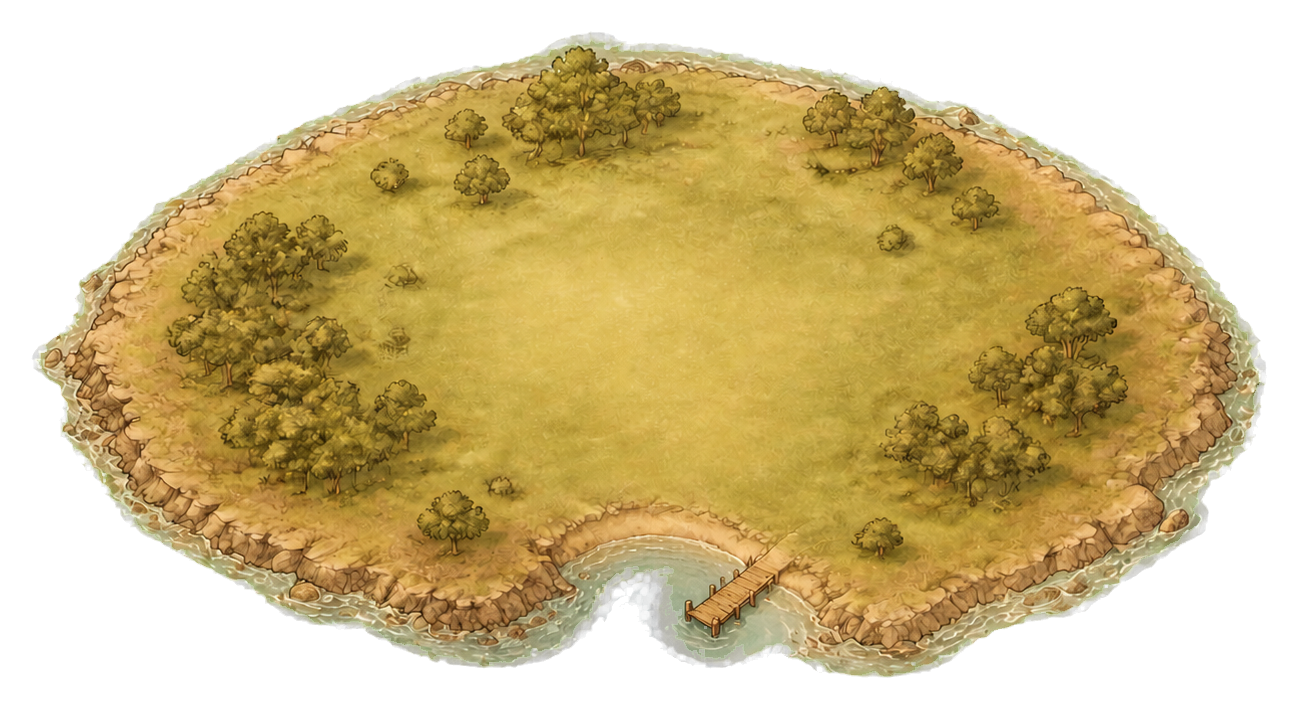
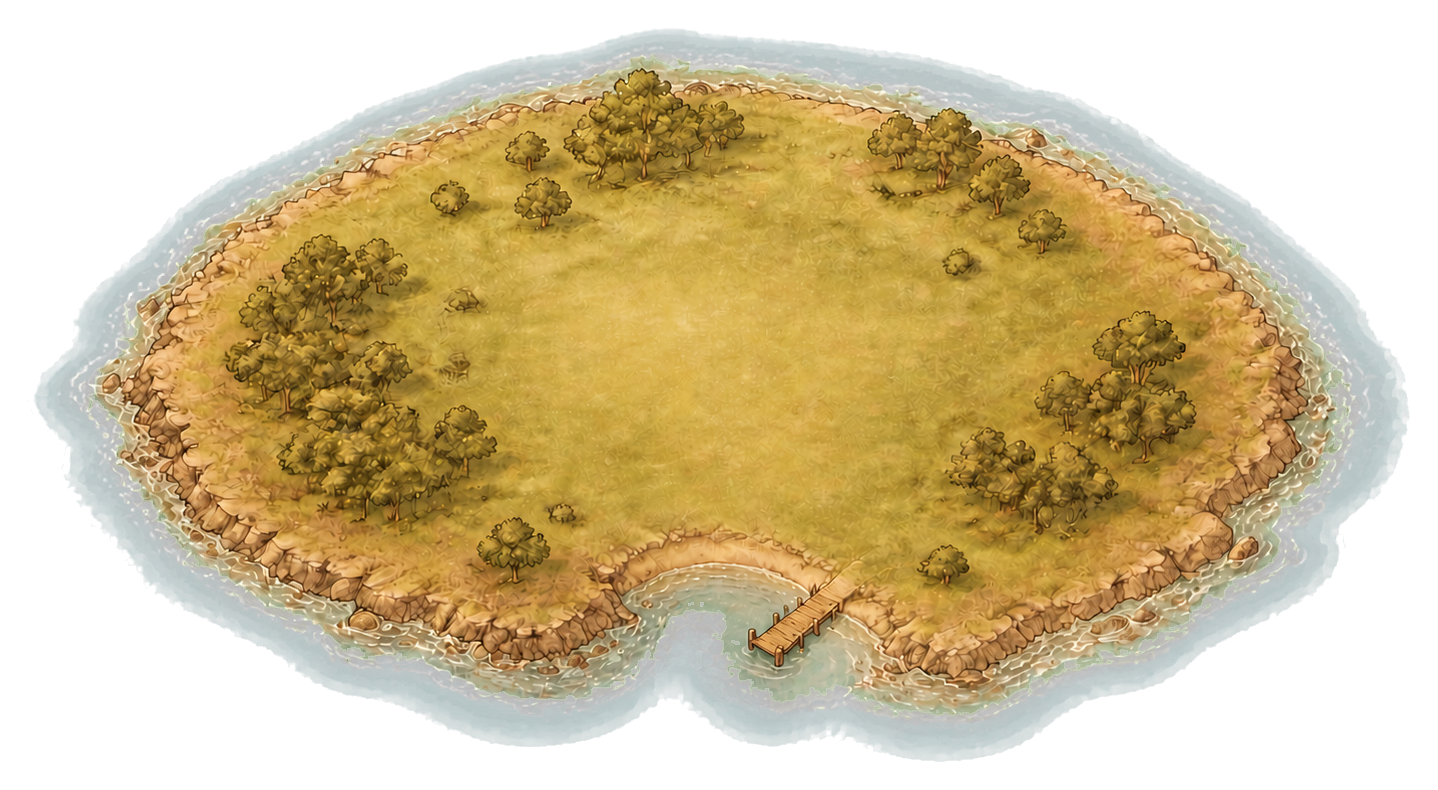
Scale tutorial island and castle

diff --git a/app/game/screens/GameLobbyScreen.tsx b/app/game/screens/GameLobbyScreen.tsx
@@ -771,7 +771,7 @@ function TutorialIslandCandidate({
       <img
         src="/art/lobby/tutorial-island-map-v1.png"
         alt="작은 섬 지도"
-        className="pointer-events-none absolute inset-0 h-full w-full object-contain"
+        className="pointer-events-none absolute inset-0 m-auto h-[76%] w-[76%] object-contain"
       />
       <button
         type="button"
@@ -790,11 +790,11 @@ function TutorialIslandCandidate({
         }}
       >
         {/* eslint-disable-next-line @next/next/no-img-element -- local transparent tutorial map object */}
-        <img src="/art/lobby/tutorial-castle-unconquered-v1.png" alt="정복할 첫 성" className="h-[108px] w-[108px] object-contain" />
+        <img src="/art/lobby/tutorial-castle-unconquered-v1.png" alt="정복할 첫 성" className="h-[54px] w-[54px] object-contain" />
       </button>
       {isSelected ? (
         <div
-          className="absolute left-1/2 top-[calc(44%+60px)] -translate-x-1/2 text-center text-[#fff0ba]"
+          className="absolute left-1/2 top-[calc(44%+38px)] -translate-x-1/2 text-center text-[#fff0ba]"
           style={{ minWidth: 96, textShadow: "0 1px 2px #201106" }}
         >
           <p className="text-[11px] font-bold">작은 섬</p>
